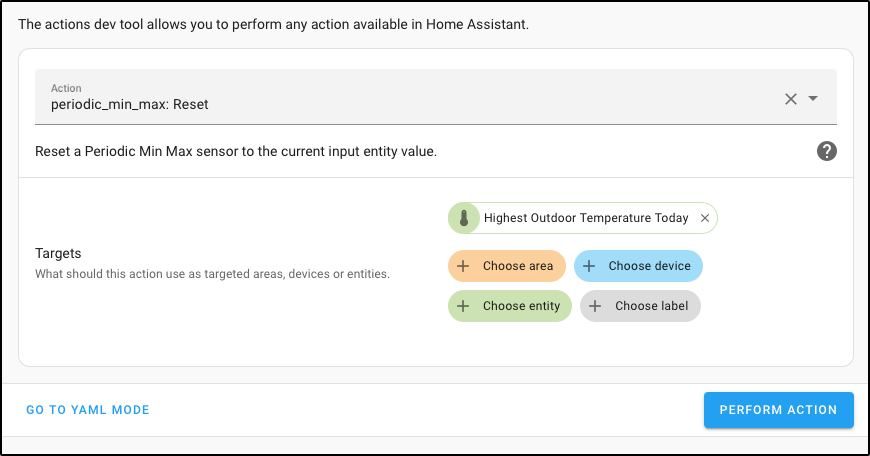
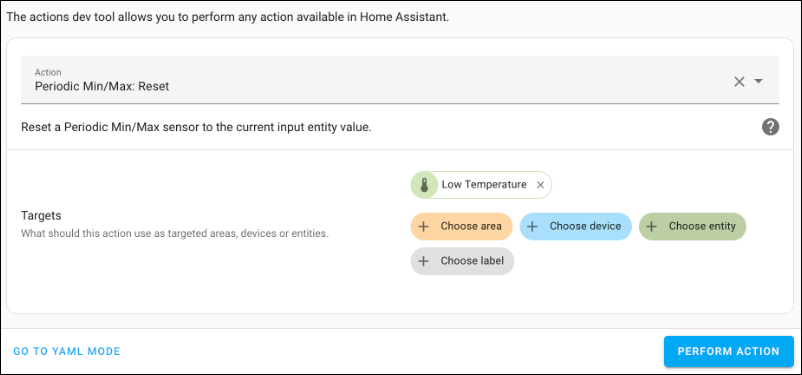
Fix naming

diff --git a/README.md b/README.md
@@ -6,7 +6,7 @@
 [![License][license-shield]](LICENSE)
 [![hacs][hacsbadge]][hacs]
 
-Periodic Min Max Helpers for Home Assistant
+Periodic Min/Max Helpers for Home Assistant
 
 The helpers record the minimum or maximum of a sensor until manually reset via the reset action. The value is maintained through HA restarts.
 
@@ -52,14 +52,14 @@ Installation via HACS is recommended, but a manual setup is supported.
 <details>
 <summary>You can help by adding missing translations when you are a native speaker. Or add a complete new language when there is no language file available.</summary>
 
-Periodic Min Max uses Crowdin to make contributing easy.
+Periodic Min/Max uses Crowdin to make contributing easy.
 
 **Changing or adding to existing language**
 
 First register and join the translation project
 
 - If you don’t have a Crowdin account yet, create one at [https://crowdin.com](https://crowdin.com)
-- Go to the [Periodic Min Max Crowdin project page](https://crowdin.com/project/periodic-min-max)
+- Go to the [Periodic Min/Max Crowdin project page](https://crowdin.com/project/periodic-min-max)
 - Click Join.
 
 Next translate a string
@@ -70,7 +70,7 @@ Next translate a string
 - Fill in or modify the translation and click Save.
 - Repeat for other translations.
 
-Periodic Min Max will automatically pull in latest changes to translations every day and create a Pull Request. After that is reviewed by a maintainer it will be included in the next release of Periodic Min Max.
+Periodic Min/Max will automatically pull in latest changes to translations every day and create a Pull Request. After that is reviewed by a maintainer it will be included in the next release of Periodic Min/Max.
 
 **Adding a new language**
 
